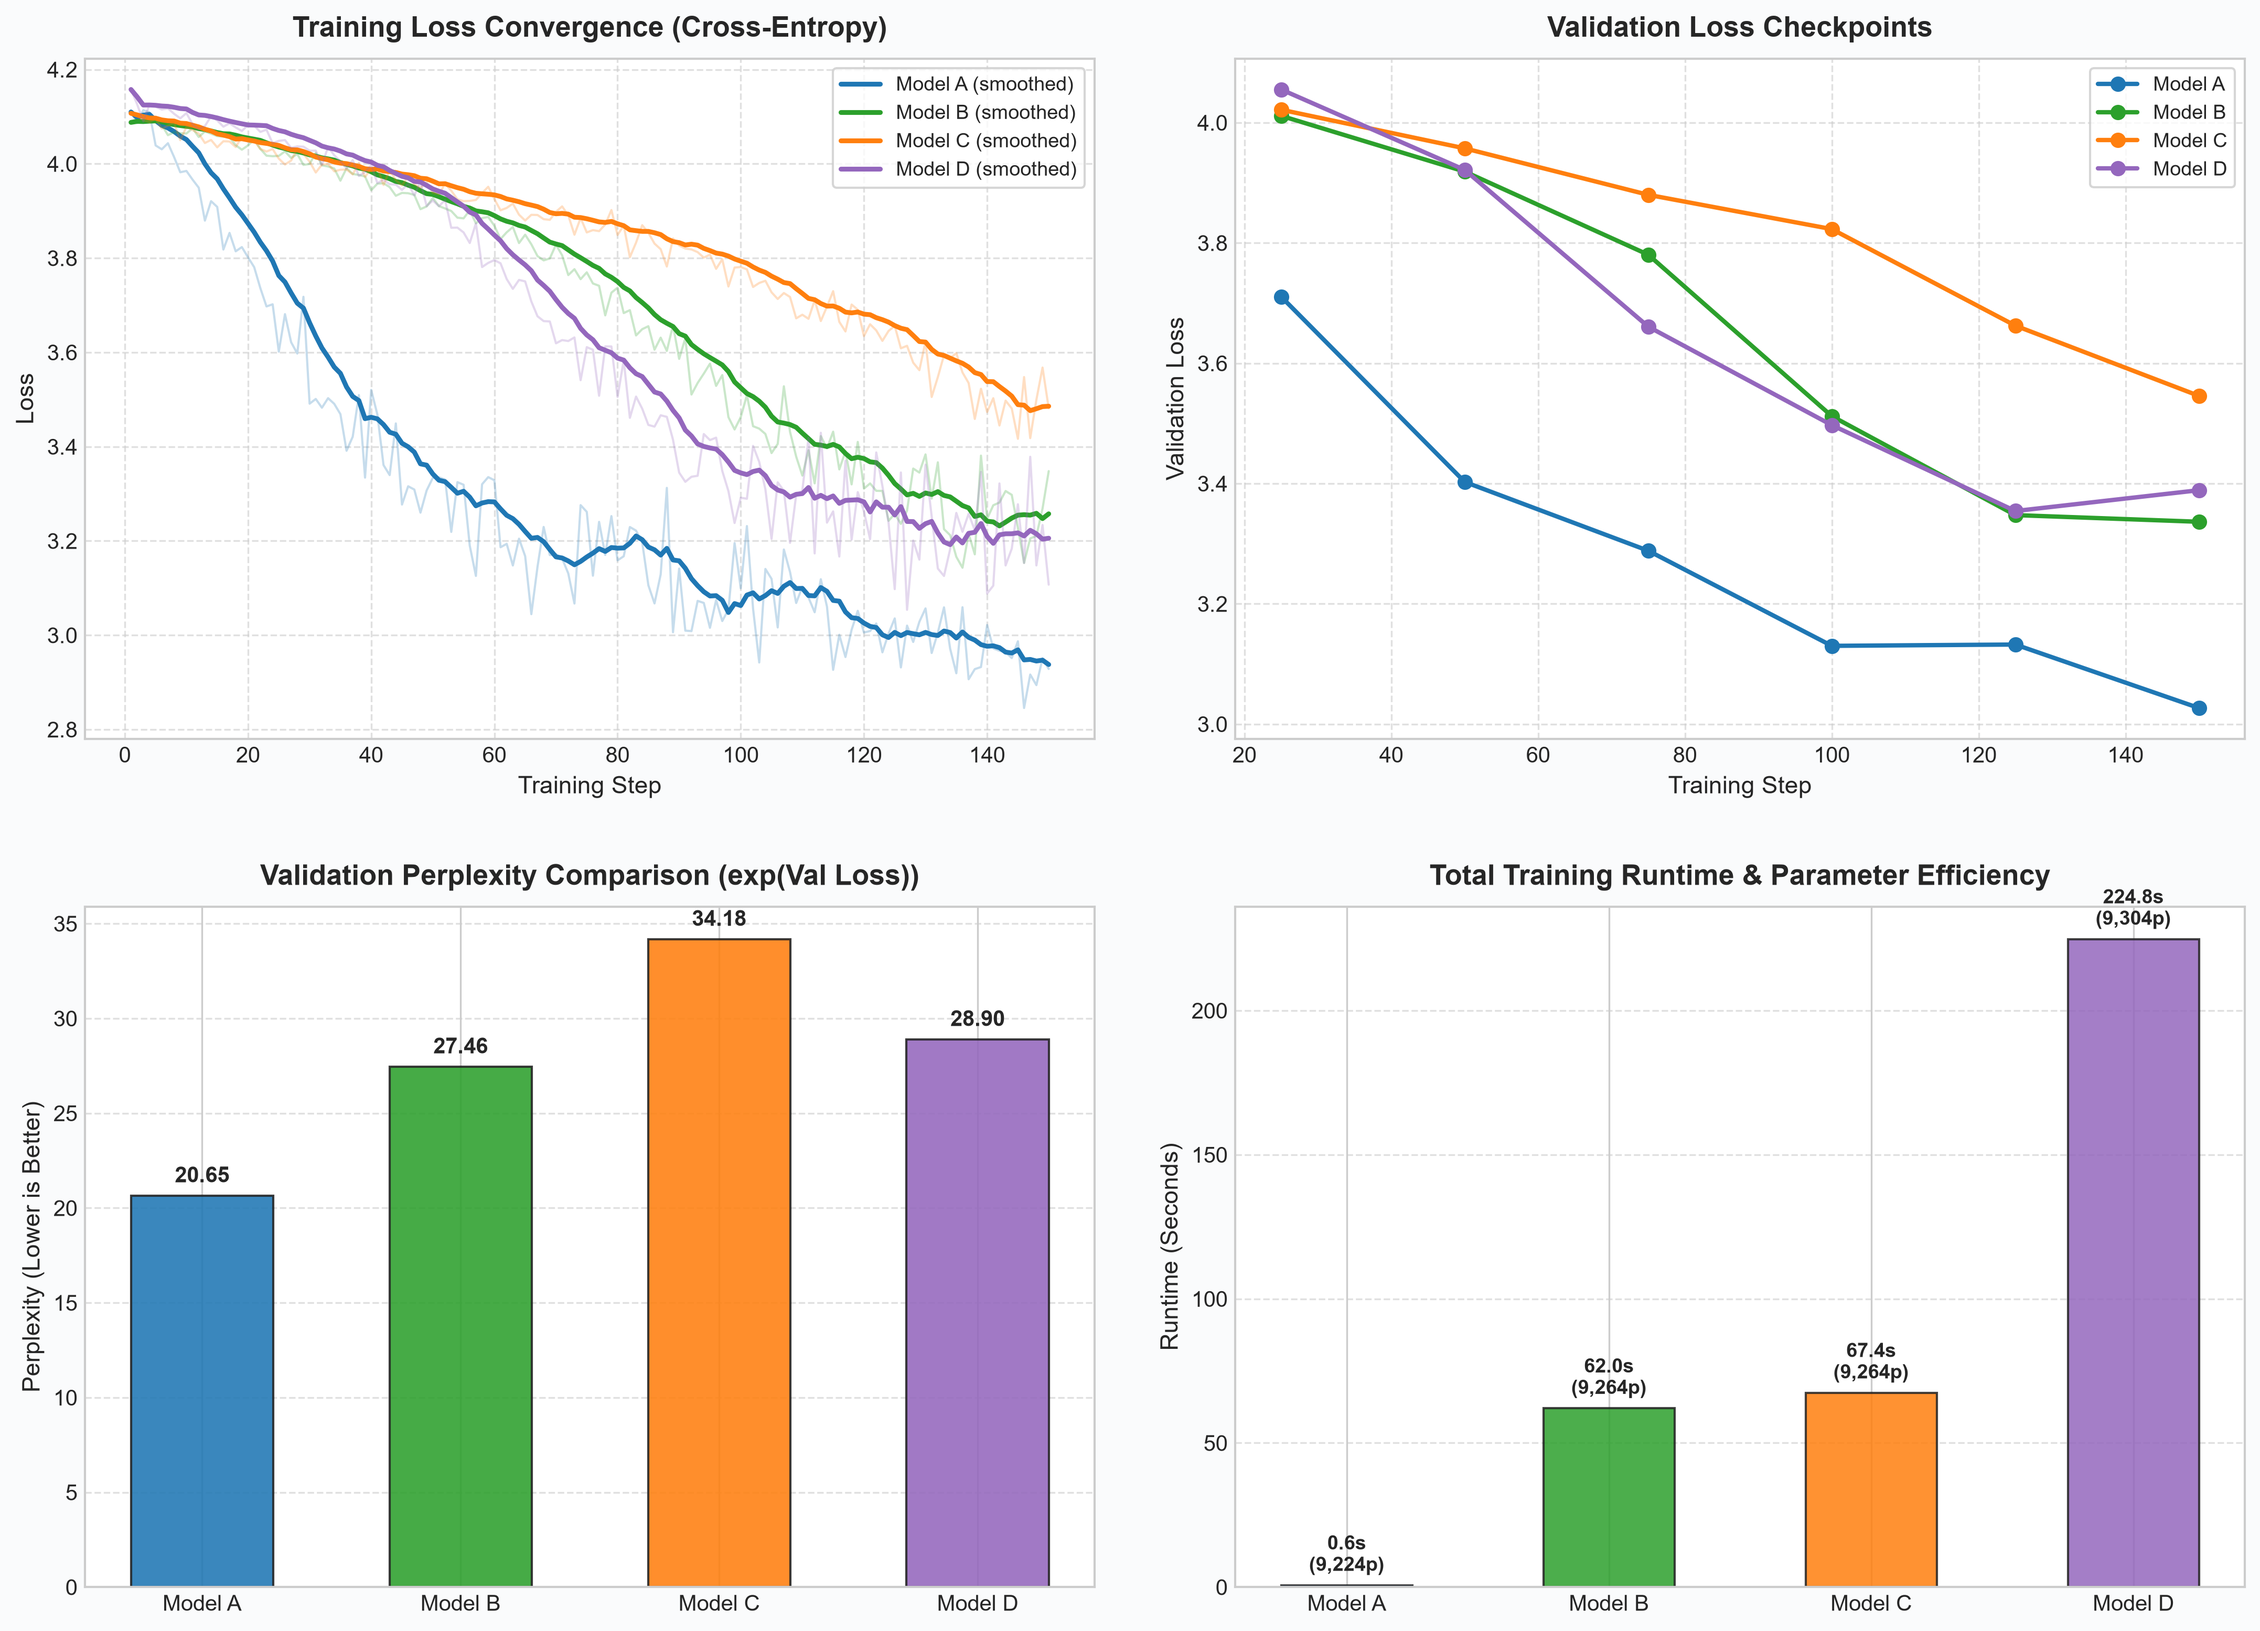
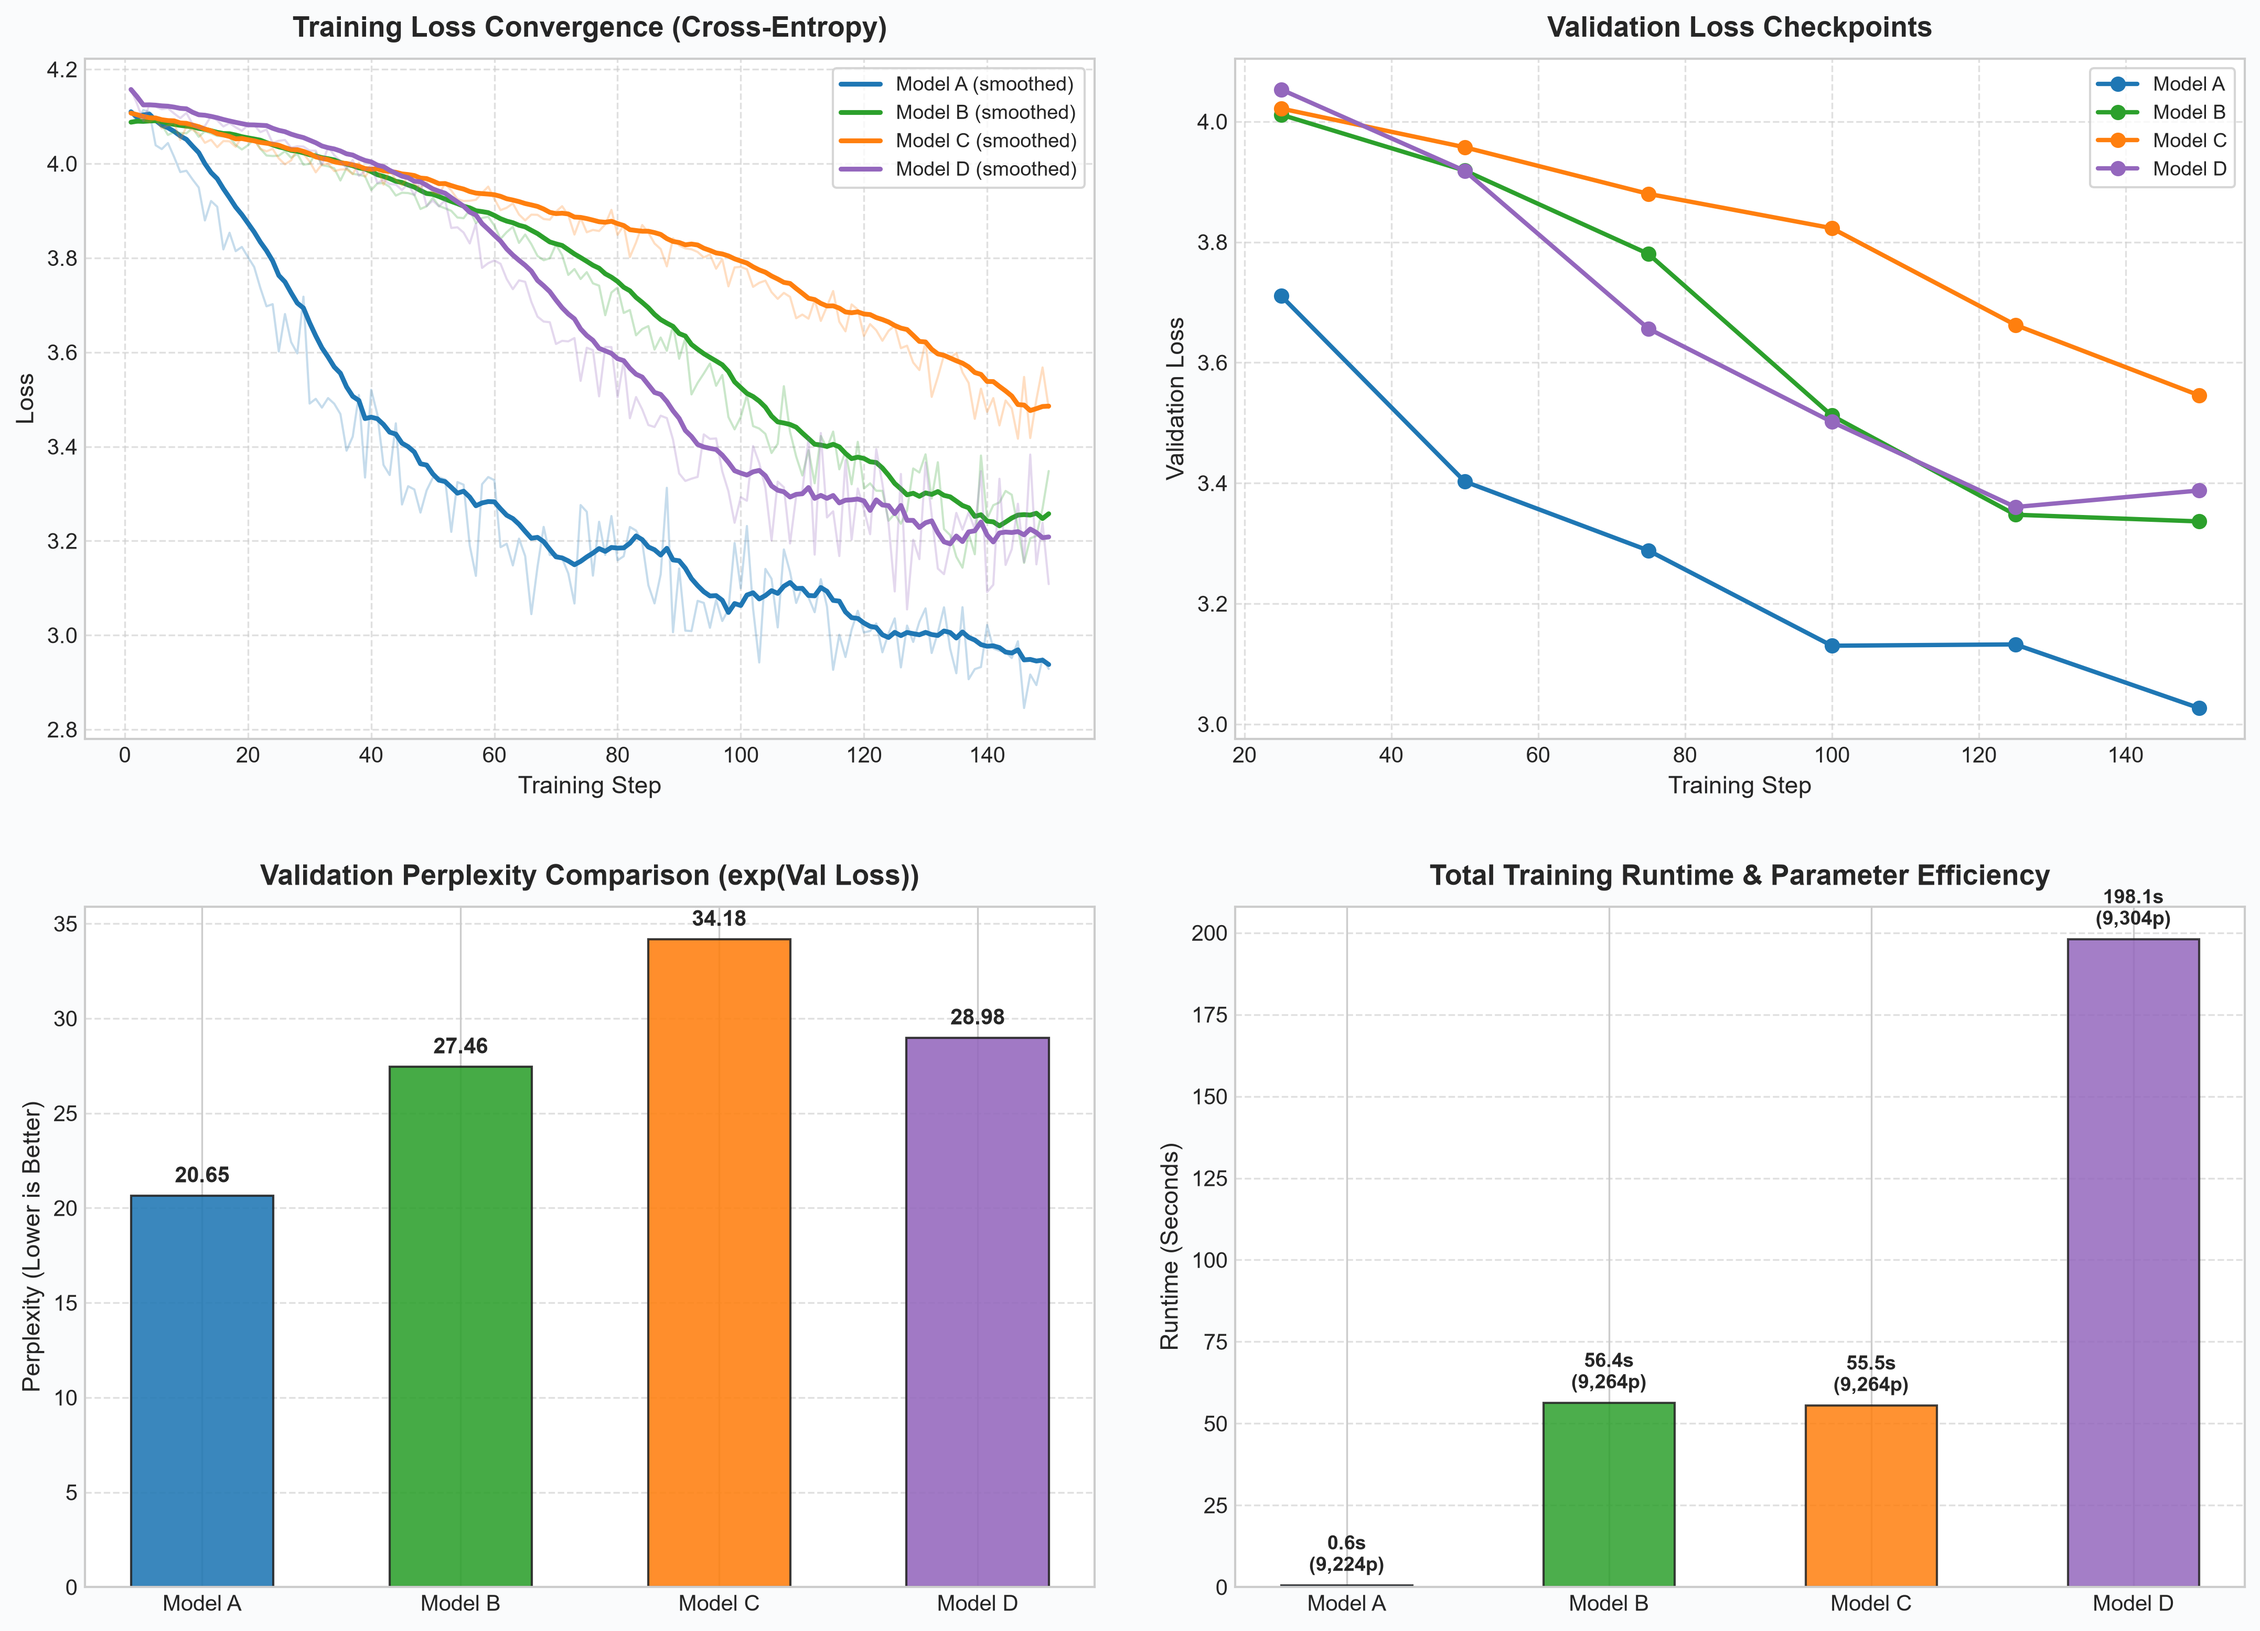
Update thesis data, loss curves, and trainer

diff --git a/qml_transformer_project/trainer.py b/qml_transformer_project/trainer.py
@@ -128,7 +128,7 @@ def train_model(
         },
         ckpt_path,
     )
-    print(f"  [Checkpoint] Saved → {ckpt_path}")
+    print(f"  [Checkpoint] Saved -> {ckpt_path}")
 
     return {
         "model_name": model_name,
